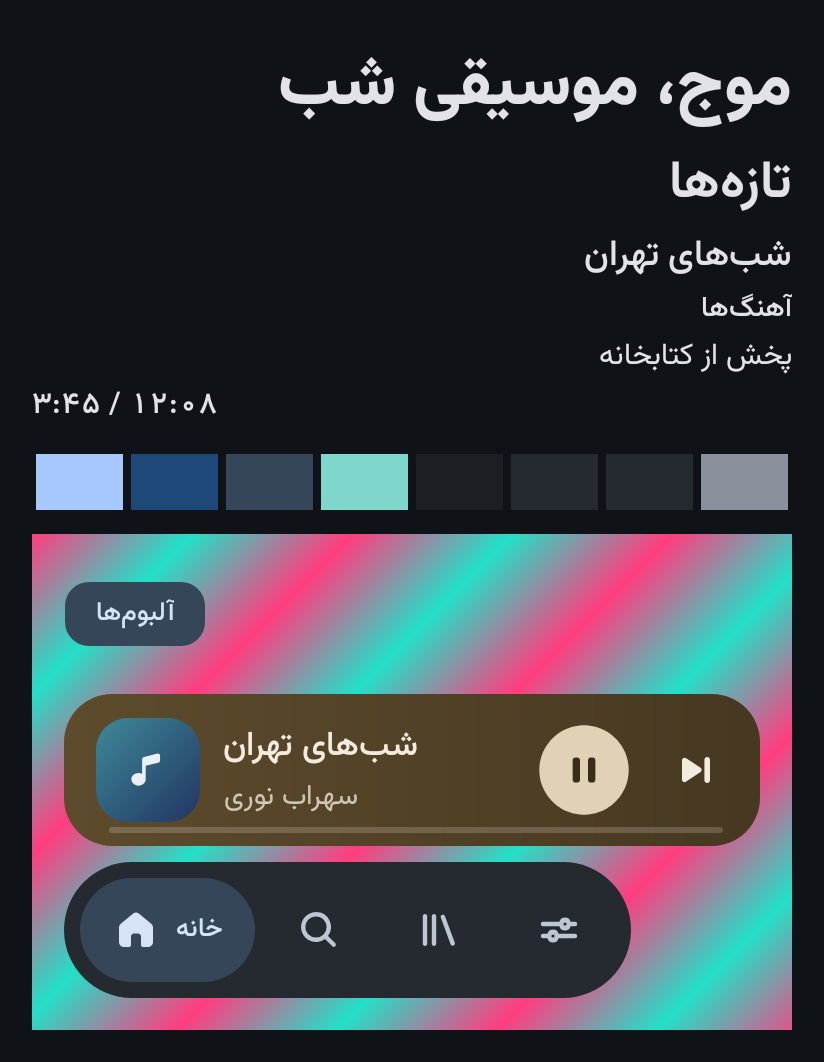
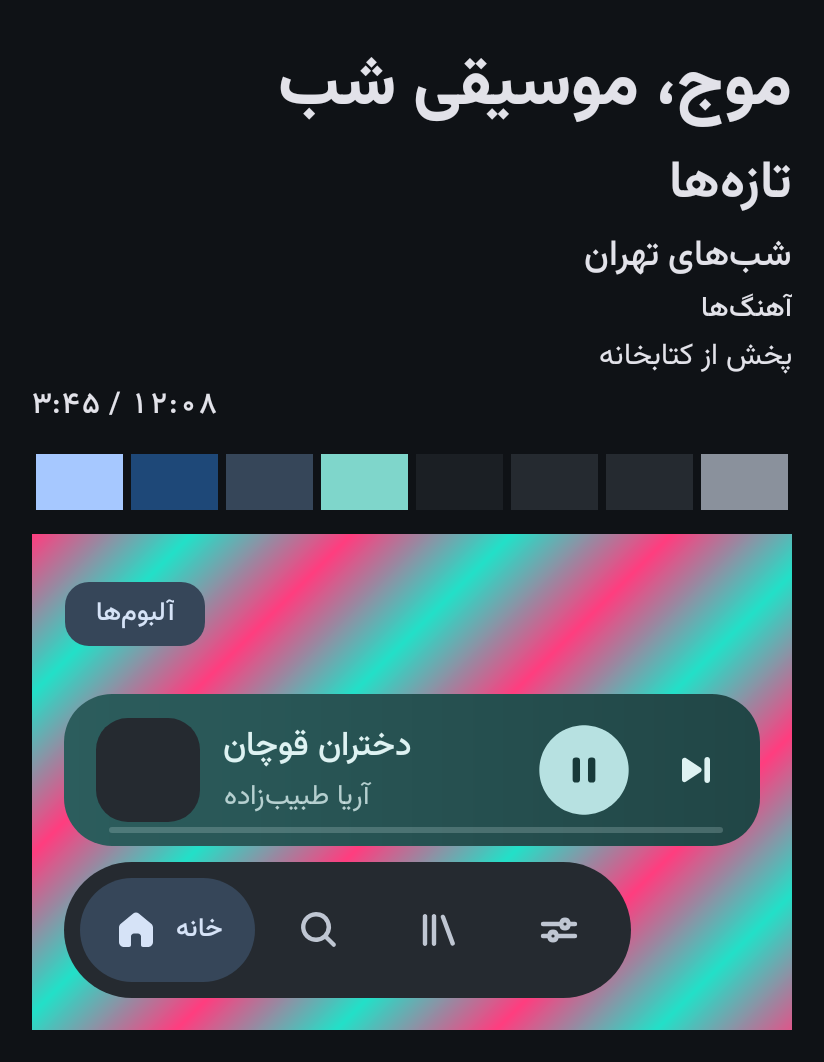
Lint: Motion.durationScale API 33 guard (cached global setting below), GeneratedCover.render @AnyThread (main-thread renders stay <= 96 px), home_mix_card gravity start; M1 theme render picks the first Persian track instead of index 33
Claude-Session: https://claude.ai/code/session_01Vs9o5GYUVh6nkyc9RDeAP9

Changed region(s): [[0.0607, 0.6525, 0.9405, 0.8079]]

diff --git a/app/src/main/java/com/mhrsdev/musicplayer/ui/widget/cover/GeneratedCover.java b/app/src/main/java/com/mhrsdev/musicplayer/ui/widget/cover/GeneratedCover.java
@@ -14,7 +14,7 @@ import android.graphics.SweepGradient;
 import android.graphics.Typeface;
 
 import androidx.annotation.Nullable;
-import androidx.annotation.WorkerThread;
+import androidx.annotation.AnyThread;
 import androidx.core.content.res.ResourcesCompat;
 
 import com.mhrsdev.musicplayer.R;
@@ -79,13 +79,18 @@ public class GeneratedCover {
         }
     }
 
-    /** A square cover bitmap. Opaque, so RGB_565 (half the memory; gradients are dithered). */
-    @WorkerThread
+    /**
+     * A square cover bitmap. Opaque, so RGB_565 (half the memory; gradients are dithered). Pure canvas drawing with
+     * no shared state, so it is safe on any thread; callers keep main-thread renders tiny
+     * ({@code ArtworkLoader.generatedNow} only up to {@code SYNC_MAX_PX} = 96 px, to avoid a placeholder flash) and
+     * render everything larger on the loader's worker.
+     */
+    @AnyThread
     public Bitmap render(CoverSpec spec, int sizePx) {
         return render(spec, sizePx, Bitmap.Config.RGB_565);
     }
 
-    @WorkerThread
+    @AnyThread
     public Bitmap render(CoverSpec spec, int sizePx, Bitmap.Config config) {
         int s = Math.max(1, sizePx);
         Bitmap b = Bitmap.createBitmap(s, s, config);

diff --git a/app/src/main/java/com/mhrsdev/musicplayer/ui/motion/Motion.java b/app/src/main/java/com/mhrsdev/musicplayer/ui/motion/Motion.java
@@ -60,9 +60,22 @@ public class Motion {
         return MotionPolicy.decorativeMotionEnabled(c);
     }
 
+    /** Below API 33: the global setting, read once and cached (no per-frame Settings lookup). */
+    private static float cachedScale = -1f;
+
     /** System animator duration scale (developer options); springs run slower by the same factor. */
     public static float durationScale() {
-        float s = ValueAnimator.getDurationScale();
+        float s;
+        if (android.os.Build.VERSION.SDK_INT >= 33) {
+            s = ValueAnimator.getDurationScale();
+        } else {
+            if (cachedScale < 0f) {
+                Context c = app;
+                cachedScale = c == null ? 1f : android.provider.Settings.Global.getFloat(c.getContentResolver(),
+                        android.provider.Settings.Global.ANIMATOR_DURATION_SCALE, 1f);
+            }
+            s = cachedScale;
+        }
         return s > 0f ? s : 1f;
     }
 

diff --git a/app/src/testDebug/java/com/mhrsdev/musicplayer/ui/widget/M1ThemeRenderTest.java b/app/src/testDebug/java/com/mhrsdev/musicplayer/ui/widget/M1ThemeRenderTest.java
@@ -108,7 +108,8 @@ public class M1ThemeRenderTest {
         chip.setChecked(true);
         chrome.addView(chip, new LinearLayout.LayoutParams(-2, -2));
         MiniPlayerView mini = new MiniPlayerView(c);
-        mini.bind(SampleData.TRACKS.get(fa ? 33 : 0));
+        mini.bind(fa ? SampleData.TRACKS.stream().filter(t -> ScriptFont.hasArabicScript(t.title())).findFirst()
+                .orElse(SampleData.TRACKS.get(0)) : SampleData.TRACKS.get(0)); // first Persian track, not a fixed index
         mini.setPlaying(true);
         LinearLayout.LayoutParams mlp = new LinearLayout.LayoutParams(-1, -2);
         mlp.topMargin = pad;
